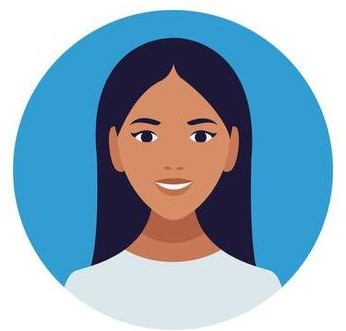
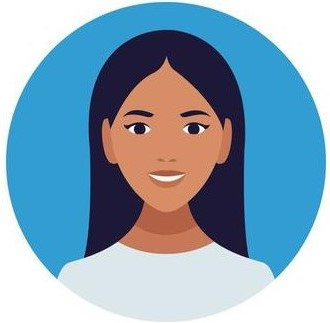
resume linked

diff --git a/assets/css/style.css b/assets/css/style.css
@@ -53,11 +53,12 @@ a {
 .hero {
     height: 320px;
     width: 100%;
-    margin-bottom: 100px;
+    margin-bottom: 50px;
     background-image: url("../images/character-icon.jpg"), url("../images/istockphoto-1127136711-612x612.jpg");
     background-repeat: no-repeat, repeat;
     background-size: relative, center;
-    background-position: 10px 20px, center;
+    background-position: 20px 10px, center;
+
 }
 /*TO DO::::::move the hero-box down a lot*/
 .hero-box {
@@ -83,6 +84,7 @@ a {
 .content {
     width: 100%;
     display: inline-block;
+    padding-left: 10px;
 }
 
 .section-title {
@@ -101,8 +103,22 @@ a {
     position: relative;
 }
 
+.info-resume {
+    color: #19334d;
+    font-family: 'Gill Sans', 'Gill Sans MT', Calibri, 'Trebuchet MS', sans-serif;
+}
 
 
 
 
 /*add footer style*/
+.footer {
+    padding-left: 10px;
+    clear: both;
+    font-family: 'Gill Sans', 'Gill Sans MT', Calibri, 'Trebuchet MS', sans-serif;
+    text-align: center;
+}
+
+.footer h2 {
+    font-size: 20px;
+}

diff --git a/index.html b/index.html
@@ -57,12 +57,18 @@
         <!--"Contact" section-->
         <div id="contact" class="info">
             <h2 class="section-title">Contact</h2>
+            <div>
+            
+            </div>
             <p>insert contact options in own way separated </p>
         </div>
 
         <!--"Resume" section-->
         <div id="resume" class="info">
             <h2 class="section-title">Resume</h2>
+            <div class="info-resume">
+                <a href="https://www.linkedin.com/in/ravneetpanglia/" target="_blank">LinkedIn</a><br />
+            </div>
             <p>insert here</p>
         </div>
     </section>
